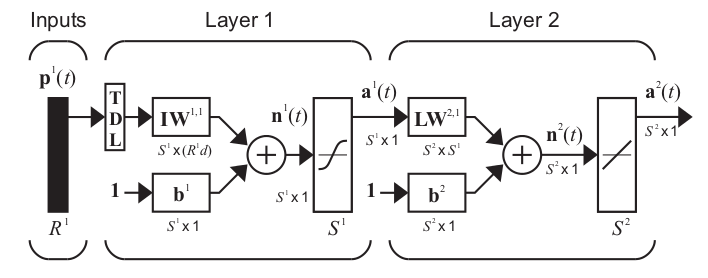
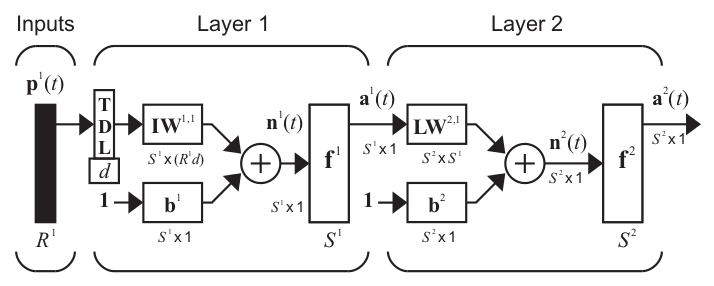
TDNN almost finished. Minor changes in Perceptron and ANNs files

diff --git a/neuralnetworks/artificial/artificialnn.tex b/neuralnetworks/artificial/artificialnn.tex
@@ -106,6 +106,8 @@ A particular function is chosen to satisfy some specification of the problem tha
 
 
 
+
+
 \subsection{Neural network model}
 \label{subsec:neuralnetworkmodel}
 
@@ -152,7 +154,17 @@ $\mathbf{a}^3$ can be written as:
 \label{fig:neuralnetworkmodelVectorial}
 \end{figure}
 
-It is important to highlight that, when implementing ANNs, the first layer is called \emph{input layer}, the last one \emph{output layer} and all the intermediate ones are known as \emph{hidden layers}. When there is no hidden layers, it is said that the net is a one-layer network. This way, two-layers networks will denote a net with a unique hidden layer. The reason of this is that the weigths of the input layer are usually fixed to $w=1$.
+It is important to highlight that, when implementing ANNs, the first layer is called \emph{input layer}, the last one \emph{output layer} and all the intermediate ones are known as \emph{hidden layers}. 
+%When there is no hidden layers, it is said that the net is a one-layer network. This way, two-layers networks will denote a net with a unique hidden layer. The reason of this is that the weigths of the input layer are usually fixed to $w=1$.
+
+Now, if one looks at \figref{neuralnetworkmodel}, it is noticed that the network drawn has no feedback elements and contains no delays in the input layer. This kind of networks are known as \emph{static feedforward} nets, in which the output is calculated
+directly from the input through feedforward connections. 
+In the others, classified as \emph{dynamic} nets,
+the output depends not only on the current input to the network, but also on the previous inputs (\emph{feedforward-dynamic}) and  outputs (\emph{recurrent-dynamic}) \cite{dimith3neural}.
+Because dynamic networks have memory, they can be trained to learn sequential or time-varying patterns, which is exactly what our project needs to predict a migraine. 
+
+
+
 
 
 
@@ -180,7 +192,8 @@ It is paramount to emphasize that, whichever is the learning rule chosen for
 a particular ANN, the training begins by assigning some initial values for the network parameters. Then, the corresponding algorithm will be in charge of adjusting them to perform the desired task.
 
 Since our experimental scenario considers a target output (the pain curve described in \secref{paincurve}), we have focused in the subset of supervised training algorithms. 
-Among the available learning rules of this type, the \emph{backpropagation} algorithm, which is explained in \secref{generalbackprop}, has been the centre of our attention. 
+Among the available learning rules of this type, the \emph{backpropagation} algorithm has been the centre of our attention. It is a gradient-based learning rule that both static an dynamic networks can use with minor changes. A complete explanation of the backpropagation algorithm can be read in \secref{generalbackprop}.
+
 
 \subsection{Advantages and disadvantages}
 

diff --git a/neuralnetworks/artificial/tdnn.tex b/neuralnetworks/artificial/tdnn.tex
@@ -1,16 +1,11 @@
 
 \label{subsec:ANN:TDNN}
 
-Prediction requires the use of dynamic neural networks, as discussed in
-Chapter 14. The specific form of the network will depend on the particular
-application. The simplest network for nonlinear prediction is the focused
-time-delay neural network, which is shown in Figure 22.3. This is part of a
-general class of dynamic networks, called focused networks, in which the
-dynamics appear only at the input layer of a static multilayer feedforward
-network. This network has the advantage that it can be trained using static
-backpropagation algorithms, since the tapped-delay-line at the input of the
-network can be replaced with an extended vector of delayed values of the
-input.
+As we indicated in \subsecref{neuralnetworkmodel}, prediction tasks requires the use of a dynamic neural network because of its memory capacity. The simplest network for nonlinear prediction is the time-delay neural network (TDNN).
+
+TDNN are similar to feedforward networks (see \figref{neuralnetworkmodelVectorial}), except that the input weight has a tap delay line (TDL) associated with it \cite{dimith3neural}. This allows the network to have a finite dynamic response to time series input data. 
+
+\figref{tdnn} shows an example of a TDNN, in which the dynamics appear only at the input layer of a static multilayer feedforward network. Notice that, in dynamic networks, the inputs and outputs of each functional block are time dependent ($\mathbf{p}(t)$,$\mathbf{n}(t)$, $\mathbf{a}(t)$).
 
 \begin{figure}[!ht]
 \centering
@@ -18,3 +13,9 @@ input.
 \caption{Time Delay network}
 \label{fig:tdnn}
 \end{figure}
+
+This network has the advantage that it can be trained using exactly the same static backpropagation algorithms (read \secref{generalbackprop}),
+since the tapped-delay-line at the input of the network can be replaced with an extended vector of delayed values of the
+input.
+
+A variant of TDNN are the distributed delay neural network, which has delays on the layer weights in addition to the input weights.

diff --git a/neuralnetworks/artificial/perceptron.tex b/neuralnetworks/artificial/perceptron.tex
@@ -61,7 +61,7 @@ $b^{\text{new}}=b^{\text{old}}+e$.
 
 Consequently, for training multiple-neuron perceptrons, the learning rule exposed in \eref{perceptron1rule} can be updated as follows:
 \begin{equation}
-\mathbf{W}^{\text{new}} = \mathbf{W}^{\text{old}}+\mathbf{e}\mathbf{p}^{\text{T}} = \mathbf{W}^{\text{old}}+(\mathbf{t}-\mathbf{a})\mathbf{p}^{\text{T}}
+\mathbf{W}^{\text{new}} = \mathbf{W}^{\text{old}}+\mathbf{e}\mathbf{p}^{T} = \mathbf{W}^{\text{old}}+(\mathbf{t}-\mathbf{a})\mathbf{p}^{T}
 \label{eq:perceptron1rule}
 \end{equation}
 where the superscript $T$ referes to the operation of taking the transpose. Notice that the term of weights $\mathbf{W}$ is now a matrix. The same way, the rule for the bias will be $\mathbf{b}^{\text{new}}=\mathbf{b}^{\text{old}}+\mathbf{e}$.
